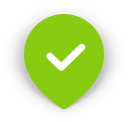
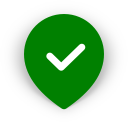
Only calculate position of pins once

diff --git a/src/components/shared/ARView/MarkerScene.js b/src/components/shared/ARView/MarkerScene.js
@@ -1,11 +1,11 @@
 // @flow
 import React, { Component } from "react";
 import { connect } from "react-redux";
-import { ViroARScene, ViroNode, ViroText, ViroConstants } from "react-viro";
-import LocationService from "../../../services/locationService";
+import { ViroARScene, ViroText, ViroConstants, ViroNode } from "react-viro";
 import { LocationUtils, MapItemUtils, MathUtils } from "../../../utils";
 import AnimatedCharacter from "./AnimatedCharacter";
 import Marker from "./Marker";
+import LocationService from "../../../services/locationService";
 
 import { updateCameraAngles } from "../../../actions/arActions";
 
@@ -16,15 +16,12 @@ type Props = {
 type State = {
   isInitialized: boolean,
   markers: Array<any>,
-  bearing: number,
   currentVerticalAngle: number,
   currentHorizontalAngleDelta: number,
   selectedMarker: ?any,
 };
 
-const ARRIVE_DISTANCE = 10;
 const ANGLE_THRESHOLD = 10;
-const PIN_MAX_DISTANCE = 10; // metres
 const ACTIVE_HEIGHT = 1;
 const HEIGHT = 0;
 
@@ -34,37 +31,24 @@ class MarkerScene extends Component<Props, State> {
   static getDerivedStateFromProps(props: Props, state: State) {
     const {
       arSceneNavigator: {
-        viroAppProps: { items, userLocation, activeMarker, onArMarkerPressed },
+        viroAppProps: { userLocation, activeMarker },
       },
     } = props;
 
-    const { bearing } = state;
+    const { markers } = state;
 
-    const markers = items.map((item) => {
+    const newMarkers = markers.map((marker) => {
       const {
         contentObject: { location: contentLocation },
-      } = item;
-      const id = MapItemUtils.getIdFromMapItem(item);
+      } = marker;
+      const arrived = LocationUtils.hasArrivedAtDestination(userLocation, contentLocation);
+      const id = MapItemUtils.getIdFromMapItem(marker);
       const active = MapItemUtils.getIdFromMapItem(activeMarker) === id;
 
-      const relativePosition = LocationUtils.getLocationRelativePosition(userLocation, contentLocation, bearing, PIN_MAX_DISTANCE);
-      const relativePositionFixed = LocationUtils.getLocationRelativePosition(userLocation, contentLocation, bearing);
-
-      const height = active ? ACTIVE_HEIGHT : HEIGHT;
-      const position = [relativePosition.x, height, relativePosition.y];
-      const positionFixed = [relativePositionFixed.x, 0, relativePositionFixed.y];
-
-      const arrived = LocationService.getTravelDistance(userLocation.coords, contentLocation) < ARRIVE_DISTANCE;
-
       return {
-        ...item,
-        key: id,
-        id,
+        ...marker,
         active,
         arrived,
-        position,
-        positionFixed,
-        onPress: onArMarkerPressed,
       };
     });
 
@@ -74,23 +58,62 @@ class MarkerScene extends Component<Props, State> {
       return markerId === selectedMarkerId;
     });
 
-    return { markers, selectedMarker };
+    return { markers: newMarkers, selectedMarker };
   }
 
   state = {
     isInitialized: false,
     markers: [],
     selectedMarker: null,
-    bearing: 0,
     currentVerticalAngle: 0,
     currentHorizontalAngleDelta: 0,
   };
 
   componentDidMount() {
-    LocationService
-      .getInstance()
+    const {
+      arSceneNavigator: {
+        viroAppProps: { items, userLocation, activeMarker, onArMarkerPressed },
+      },
+    } = this.props;
+
+    LocationService.getInstance()
       .getCompassBearing()
-      .then(bearing => this.setState({ bearing }));
+      .then((bearing) => {
+        const markers = items.map((item) => {
+          const {
+            contentObject: { location: contentLocation },
+          } = item;
+          const id = MapItemUtils.getIdFromMapItem(item);
+          const active = MapItemUtils.getIdFromMapItem(activeMarker) === id;
+
+          const relativePosition = LocationUtils.getLocationRelativePosition(userLocation, contentLocation, bearing);
+          const relativePositionFixed = LocationUtils.getLocationRelativePosition(userLocation, contentLocation, bearing);
+
+          const height = active ? ACTIVE_HEIGHT : HEIGHT;
+          const position = [relativePosition.x, height, relativePosition.y];
+          const positionFixed = [relativePositionFixed.x, 0, relativePositionFixed.y];
+          const arrived = LocationUtils.hasArrivedAtDestination(userLocation, contentLocation);
+
+          return {
+            ...item,
+            key: id,
+            id,
+            active,
+            arrived,
+            position,
+            positionFixed,
+            onPress: onArMarkerPressed,
+          };
+        });
+
+        const selectedMarkerId = MapItemUtils.getIdFromMapItem(activeMarker);
+        const selectedMarker = markers.find((marker) => {
+          const markerId = MapItemUtils.getIdFromMapItem(marker);
+          return markerId === selectedMarkerId;
+        });
+
+        this.setState({ markers, selectedMarker });
+      });
   }
 
   onInitialized = (tracking: ViroConstants) => {
@@ -120,12 +143,7 @@ class MarkerScene extends Component<Props, State> {
         },
         dispatchCameraUpdateAngles,
       },
-      state: {
-        markers,
-        selectedMarker,
-        currentVerticalAngle,
-        currentHorizontalAngleDelta,
-      },
+      state: { markers, selectedMarker, currentVerticalAngle, currentHorizontalAngleDelta },
     } = this;
 
     const active = markers.find((marker) => {
@@ -177,23 +195,26 @@ class MarkerScene extends Component<Props, State> {
 
     return (
       <ViroARScene onTrackingUpdated={onInitialized} onCameraTransformUpdate={this.onCameraTransformUpdate}>
-        {!isInitialized
-          ? <ViroText text="Starting AR" />
-          : (
-            <ViroNode>
-              { selectedMarker && <AnimatedCharacter markerPosition={selectedMarker.positionFixed} /> }
-              { markers.map(marker => <Marker {...marker} />)}
-            </ViroNode>
-          )
-          }
+        {!isInitialized ? (
+          <ViroText text="Starting AR" />
+        ) : (
+          <ViroNode>
+            {selectedMarker && <AnimatedCharacter markerPosition={selectedMarker.positionFixed} />}
+            {markers.map(marker => (
+              <Marker {...marker} />
+            ))}
+          </ViroNode>
+        )}
       </ViroARScene>
     );
   }
 }
 
-const mapState = () => ({});
 const mapDispatch = (dispatch: Dispatch) => ({
   dispatchCameraUpdateAngles: (cameraTransform: Object) => dispatch(updateCameraAngles(cameraTransform)),
 });
 
-export default connect(mapState, mapDispatch)(MarkerScene);
+export default connect(
+  null,
+  mapDispatch,
+)(MarkerScene);

diff --git a/src/components/shared/MarkerListView/index.js b/src/components/shared/MarkerListView/index.js
@@ -9,7 +9,6 @@ import SegmentControl from "../SegmentControl";
 import MapMarkerView from "../MapMarkerView";
 import ARView from "../ARView";
 import LangService from "../../../services/langService";
-import LocationService from "../../../services/locationService";
 import { LocationUtils, UrlUtils, AnalyticsUtils, MapItemUtils, NavigationModeUtils } from "../../../utils";
 import { selectCurrentContentObject, selectCurrentGuideGroup, selectCurrentGuide } from "../../../actions/uiStateActions";
 import { AR_INSTRUCTIONS_SHOWN } from "../../../lib/my_consts";
@@ -188,8 +187,15 @@ class MarkerListView extends Component<Props, State> {
 
   displayNumberView = (item: MapItem, index: number) => {
     const numberString = `${index}`;
+    const { userLocation } = this.props;
+    let hasArrived = false;
+
+    if (userLocation) {
+      hasArrived = LocationUtils.hasArrivedAtDestination(userLocation, MapItemUtils.getLocationFromItem(item));
+    }
+
     const numberView = (
-      <View style={styles.listImageNumberView}>
+      <View style={hasArrived ? styles.listImageNumberViewArrived : styles.listImageNumberView}>
         <Text style={styles.listImageNumberText}>{numberString}</Text>
       </View>
     );
@@ -246,8 +252,8 @@ class MarkerListView extends Component<Props, State> {
     if (!location || !userLocation) return null;
 
     const { coords } = userLocation;
-    const distance = Math.round(LocationService.getTravelDistance(coords, location));
-    const time = Math.round(LocationService.getTravelTime(distance));
+    const distance = Math.round(LocationUtils.getTravelDistance(coords, location));
+    const time = Math.round(LocationUtils.getTravelTime(distance));
 
     const min = LangService.strings.MINUTE;
     const hour = LangService.strings.HOUR;

diff --git a/src/utils/LocationUtils.js b/src/utils/LocationUtils.js
@@ -6,6 +6,9 @@ import MathUtils from "./MathUtils";
 
 const ios = Platform.OS === "ios";
 
+const WALKING_SPEED = 80; // metres per minute
+const ARRIVE_DISTANCE = 20;
+
 function getDistanceBetweenCoordinates(firstLocation: PositionLongLat, secondLocation: PositionLongLat): number {
   if (firstLocation.latitude && firstLocation.longitude && secondLocation.latitude && secondLocation.longitude) {
     return geolib.getDistanceSimple(firstLocation, secondLocation);
@@ -71,6 +74,22 @@ function getLocationRelativePosition(userLocation: GeolocationType, targetLocati
   return { x, y };
 }
 
+function getTravelDistance(
+  fromLocation: { latitude: number, longitude: number },
+  toLocation: { latitude: number, longitude: number },
+  unit: string = "meter",
+) {
+  return haversine(fromLocation, toLocation, { unit }) || 0;
+}
+
+function getTravelTime(distance: number) {
+  return distance / WALKING_SPEED;
+}
+
+function hasArrivedAtDestination(userLocation: GeolocationType, destination: { latitude: number, longitude: number }) {
+  return getTravelDistance(userLocation.coords, destination) < ARRIVE_DISTANCE;
+}
+
 // Location of second mapItem in Sofiero-Topp-10, for testing purpose
 const mockLocation = {
   coords: {
@@ -86,4 +105,7 @@ export default {
   getLocationRelativePosition,
   angleBetweenCoords,
   mockLocation,
+  getTravelDistance,
+  getTravelTime,
+  hasArrivedAtDestination,
 };

diff --git a/src/services/locationService.js b/src/services/locationService.js
@@ -2,13 +2,11 @@ import { Alert, Platform, Linking } from "react-native";
 import Permissions from "react-native-permissions";
 import AndroidOpenSettings from "react-native-android-open-settings";
 import RNSimpleCompass from "react-native-simple-compass";
-import haversine from "haversine";
 import LangService from "./langService";
 import GeoLocationActions from "../actions/geolocationActions";
 
 const ios = Platform.OS === "ios";
 
-const WALKING_SPEED = 80; // metres per minute
 const DEGREE_UPDATE_THRESHOLD = 10; // number of degrees to trigger callback (in degrees)
 const DISTANCE_UPDATE_THRESHOLD = 1; // distance to move to trigger callback (in meters)
 
@@ -83,10 +81,6 @@ export default class LocationService {
     if (!instance) instance = new LocationService();
     return instance;
   }
-
-  static getTravelDistance = (fromLocation, toLocation, unit = "meter") => haversine(fromLocation, toLocation, { unit }) || 0;
-
-  static getTravelTime = distance => distance / WALKING_SPEED;
 
   upatePosition = () => new Promise((resolve, reject) => getLocation().then(
     (position) => {

diff --git a/src/components/shared/MarkerListView/styles.js b/src/components/shared/MarkerListView/styles.js
@@ -34,6 +34,15 @@ const listItemShared = {
   shadowOpacity: 1,
 };
 
+const listImageNumberViewShared = {
+  alignItems: "center",
+  borderRadius: 11,
+  flexDirection: "row",
+  height: 22,
+  justifyContent: "center",
+  width: 22,
+};
+
 export default StyleSheet.create({
   container: {
     backgroundColor: Colors.white,
@@ -101,13 +110,12 @@ export default StyleSheet.create({
     },
   ]),
   listImageNumberView: {
-    alignItems: "center",
+    ...listImageNumberViewShared,
     backgroundColor: Colors.purple,
-    borderRadius: 11,
-    flexDirection: "row",
-    height: 22,
-    justifyContent: "center",
-    width: 22,
+  },
+  listImageNumberViewArrived: {
+    ...listImageNumberViewShared,
+    backgroundColor: Colors.green,
   },
   listItem: {
     ...listItemShared,
@@ -137,7 +145,6 @@ export default StyleSheet.create({
       fontWeight: "bold",
       letterSpacing: 0.08,
       marginRight: TextMargin,
-      width: 161,
     },
   ]),
   listItemTitleContainer: {

diff --git a/src/components/shared/TrailView/index.js b/src/components/shared/TrailView/index.js
@@ -138,6 +138,8 @@ const mockLocations = [
   },
 ];
 
+const mockItems = mockLocations.map(createMockItem);
+
 function renderDownloadButton() {
   return <DownloadButtonContainer style={styles.downloadButton} />;
 }
@@ -164,11 +166,9 @@ function renderMapInformationOverlay(trail: Guide, onToggleInfoOverlay: () => vo
 
 const TrailView = (props: Props) => {
   const { trail, onToggleInfoOverlay, showInfoOverlay, navigation } = props;
-  // const mapItems: MapItem[] = trail.contentObjects.map(item => ({
-  //   contentObject: item,
-  // }));
-
-  const mockItems = mockLocations.map(createMockItem);
+  const mapItems: MapItem[] = trail.contentObjects.map(item => ({
+    contentObject: item,
+  }));
 
   return (
     <View style={styles.container}>

diff --git a/src/components/shared/ARView/index.js b/src/components/shared/ARView/index.js
@@ -75,12 +75,7 @@ export default class ARView extends Component<Props, State> {
           apiKey="B896B483-78EB-42A3-926B-581DD5151EE8"
           worldAlignment="GravityAndHeading"
         />
-        <OffscreenMarkersView
-          items={items}
-          userLocation={userLocation}
-          activeMarker={activeMarker}
-          pointerEvents="none"
-        />
+        <OffscreenMarkersView items={items} userLocation={userLocation} activeMarker={activeMarker} pointerEvents="none" />
         <OffscreenHintView />
       </View>
     ) : (
@@ -90,4 +85,3 @@ export default class ARView extends Component<Props, State> {
     );
   }
 }
-

diff --git a/src/components/shared/ARView/Marker/index.js b/src/components/shared/ARView/Marker/index.js
@@ -65,14 +65,14 @@ ViroAnimations.registerAnimations({
     properties: {
       positionY: 0.5,
     },
-    easing: "Bounce",
+    easing: "EaseInOut",
     duration: 250,
   },
   [RESET_ANIMATION]: {
     properties: {
       positionY: 0.5,
     },
-    easing: "Bounce",
+    easing: "EaseInOut",
     duration: 250,
   },
   [PIN_ANIMATION]: [[RAISE_ANIMATION, DROP_ANIMATION]],
